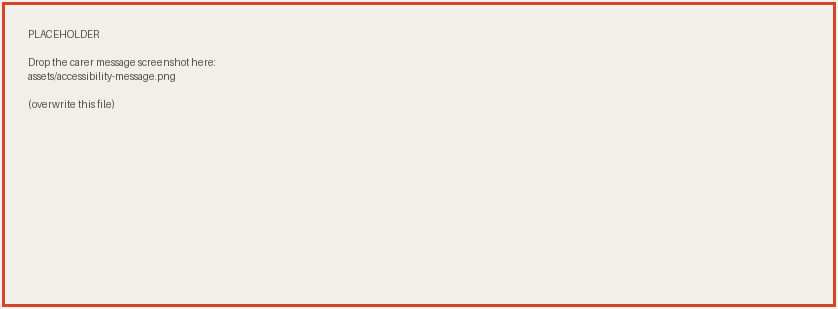
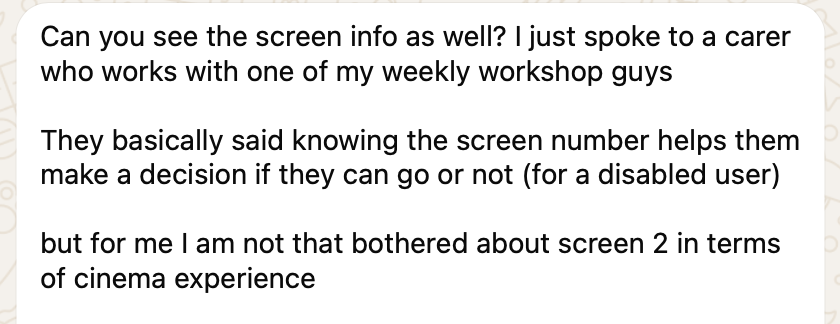
Use the real message, and stop overstating it
The screenshot was recovered from the session transcript, replacing the
placeholder.

"The whole decision" overclaimed what the carer actually said, which was
that the screen number helps them decide. Headline and copy pulled back
to match: it's a useful field to show, not the entire question.

Claude-Session: https://claude.ai/code/session_01Dg8TGWmzsbL3xKGyUKhJot

Changed region(s): [[0.0, 0.0, 1.0, 1.0]]

diff --git a/index.html b/index.html
@@ -246,11 +246,10 @@
   <section class="slide" id="slide-access">
     <div class="slide-inner">
       <p class="eyebrow">Accessibility</p>
-      <h1>The screen number is the whole decision</h1>
+      <h1>Worth showing: which screen it’s in</h1>
       <p class="lede">
-        This arrived while the mockup was being built. It isn't a design
-        opinion &mdash; it's someone working out whether an evening out is
-        possible at all.
+        This came in while the mockup was being built. A small field, already
+        in the data, that does real work for part of the audience.
       </p>
 
       <div class="access-layout">
@@ -260,7 +259,7 @@
         </figure>
 
         <div class="access-points">
-          <p class="compare-point"><strong>Screen 2 has step-free access. Screen 1 doesn't.</strong> For most people that's trivia. For a wheelchair user and the person bringing them, it's the difference between booking and not &mdash; and films move between the two screens mid-run, so it can't be answered once per film.</p>
+          <p class="compare-point"><strong>Screen 2 has step-free access. Screen 1 doesn't.</strong> For most people that's trivia. For a disabled customer and whoever's bringing them, it's part of working out whether the trip is on &mdash; and films move between the two screens mid-run, so it can't be answered once per film.</p>
           <p class="compare-point"><strong>The box office already knows, showtime by showtime.</strong> Every film performance at Mareel in the next three weeks carries its screen &mdash; 91 showtimes across 18 films, 41 in Screen&nbsp;1 and 50 in Screen&nbsp;2. Not one is blank.</p>
           <p class="compare-point"><strong>It just never reaches the page.</strong> Pressure's own booking page prints "7:00&nbsp;pm Silver Screen" &mdash; the access tag, rendered &mdash; from a payload that in the same breath says <code>"FolderSpaceData": "Screen 2"</code>. The screen is loaded, then dropped.</p>
           <div class="source-tag">
